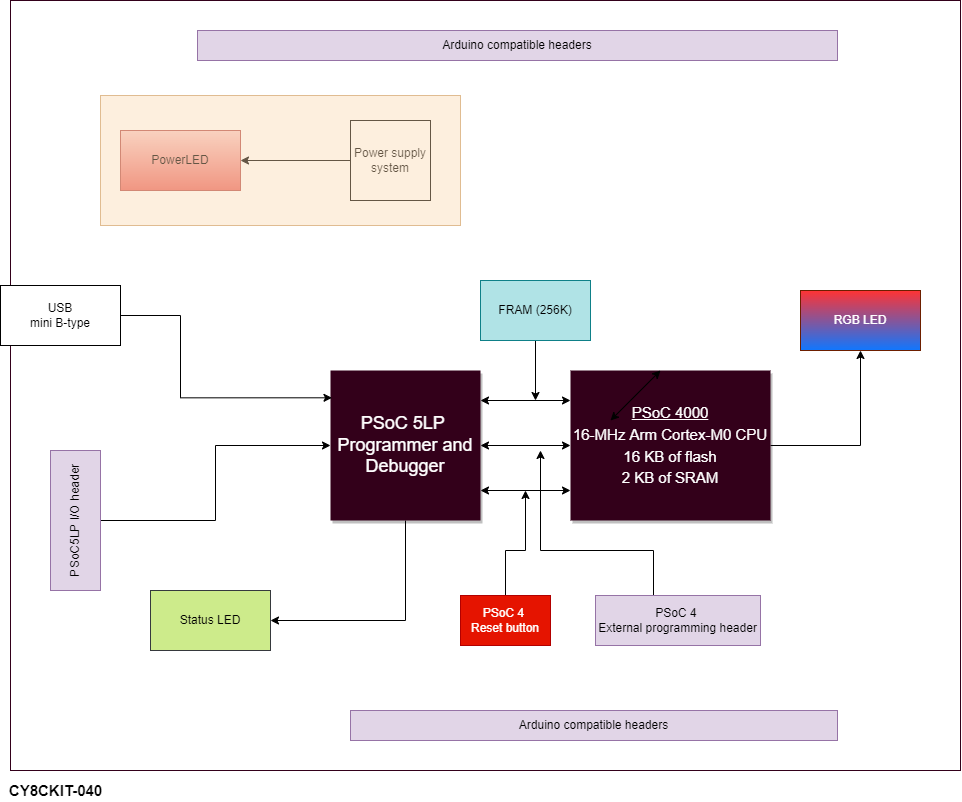
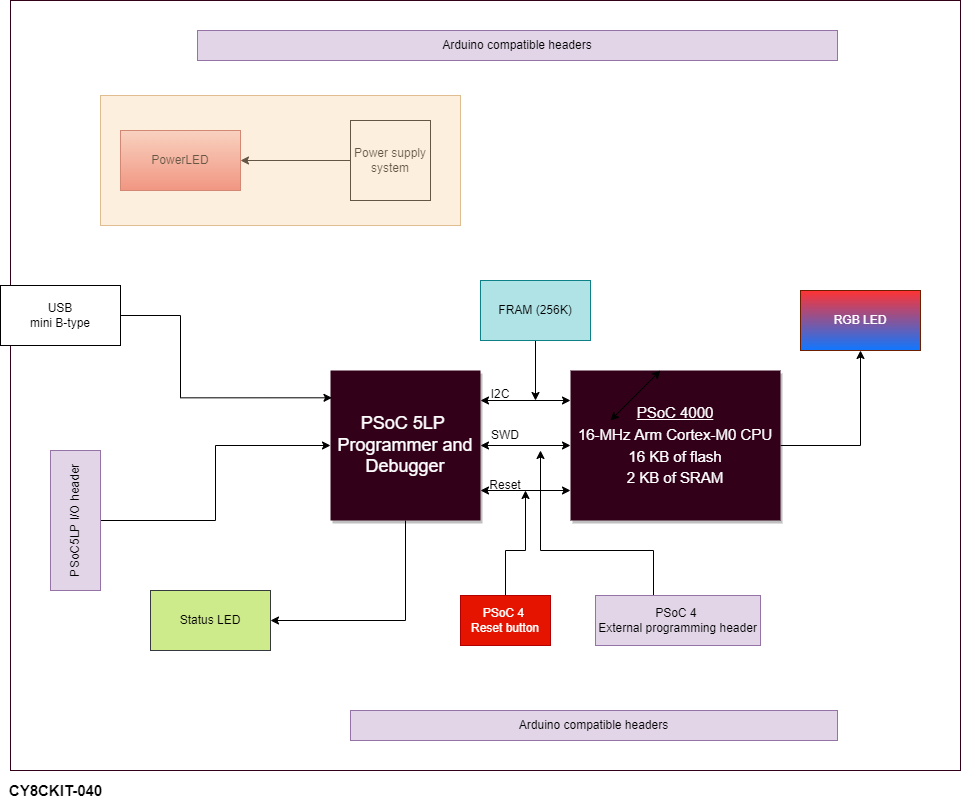
Update hw bd, cy8ckit040 markdown

diff --git a/assignments/week_2/CY8CKIT-040.md b/assignments/week_2/CY8CKIT-040.md
@@ -18,10 +18,8 @@ For peripherals, note the communication paths (SPI, I2C, etc).
 |PSoC 5LP Debugger/Programmer|    SWD|
 |Reset button|    GPIO|
 |Status/Power LEDs|            GPIO|
-|F-RAM|   I2C      |
-|RGB LED|     PWM          |
-|ST MEMS Gyroscope (I3G4250D)|    I2C/SPI|
-|2.4" QVGA TFT LCD|       Parallel interface|
+|F-RAM (256 KB)|   I2C      |
+|RGB LED|     GPIO          |
 
 Look through the datasheet for the processor and other documents. Answer these questions: 
 ### Processor related:
@@ -29,11 +27,13 @@ Look through the datasheet for the processor and other documents. Answer these q
     * CY8C4014LQI-422
 
 * How much Flash and RAM does it have? Any other memory types? 
-    * 2MB Flash and 256KB RAM
-    * 4KB backup SRAM
+    * 16 KB of flash
+    * 2 KB of SRAM
+    * 4 KB of SROM (A supervisory ROM that contains boot and configuration routines
+        is provided.)
 
 * Does it have any special peripherals? (List 3-5 that you find interesting.
-    * ADC, DAC, CAN, TIMERS, USART, SDIO, SAI, DCMI 
+    * FRAM, PSoC 5LP debugger/Programmer, RGB Led, Proximity header
 
 * If it has an ADC, what are the features?
 ### ADC
